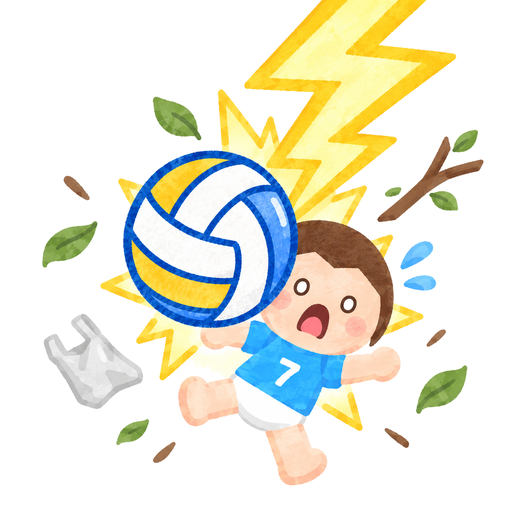
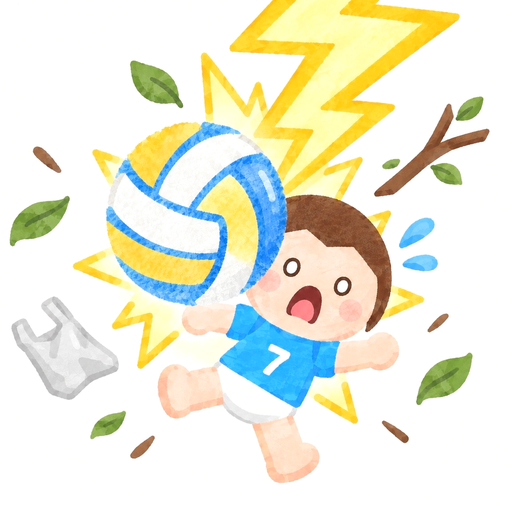
嵐のバレーボールの紹介ページを英語対応、Lucideのライセンス表記を追加
- 嵐のバレーボール: 日本語/英語の切り替えを追加（ブラウザの言語か ?lang= で決まる）
- 嵐のバレーボール: 応援課金の注記を追加、文言を微修正
- 嵐のバレーボール / Vollog: Lucide（ISC）と Feather（MIT）のライセンス文とフッターの表記を追加
- 嵐のバレーボールのアイコン画像を差し替え

diff --git a/apps/storm-volley/index.html b/apps/storm-volley/index.html
@@ -406,6 +406,37 @@
       color: var(--muted);
     }
 
+    /* 言語の切り替え。<html lang> に合う側だけを見せる（スクリプトが動かなければ日本語） */
+    html:not([lang="en"]) .en { display: none; }
+    html[lang="en"] .ja { display: none; }
+
+    .lang-switcher {
+      display: flex;
+      justify-content: flex-end;
+      gap: 8px;
+      margin-bottom: 28px;
+    }
+
+    .lang-btn {
+      font: inherit;
+      font-size: 12px;
+      padding: 5px 14px;
+      border-radius: 20px;
+      border: 1px solid var(--border);
+      background: transparent;
+      color: var(--muted);
+      cursor: pointer;
+      transition: color 0.2s, border-color 0.2s;
+    }
+    .lang-btn:hover { color: var(--text); }
+
+    html:not([lang="en"]) .lang-btn[data-lang="ja"],
+    html[lang="en"] .lang-btn[data-lang="en"] {
+      border-color: rgba(124,106,255,0.4);
+      color: var(--accent);
+      background: rgba(124,106,255,0.08);
+    }
+
     @keyframes fadeUp {
       from { opacity: 0; transform: translateY(20px); }
       to   { opacity: 1; transform: translateY(0); }
@@ -422,12 +453,19 @@
   <header>
     <a class="header-brand" href="/">AsakusaSemao</a>
     <nav class="header-links">
-      <a href="/apps/storm-volley/privacy.html">プライバシーポリシー</a>
-      <a href="/apps/tokushoho.html">特定商取引法</a>
+      <a class="ja" href="/apps/storm-volley/privacy.html">プライバシーポリシー</a>
+      <a class="ja" href="/apps/tokushoho.html">特定商取引法</a>
+      <a class="en" lang="en" href="/apps/storm-volley/privacy.html">Privacy Policy</a>
     </nav>
   </header>
 
-  <main>
+  <main class="ja">
+
+    <!-- 言語の切り替え。最初は、ブラウザの言語に合わせる（下のスクリプト） -->
+    <div class="lang-switcher">
+      <button class="lang-btn" type="button" data-lang="ja">日本語</button>
+      <button class="lang-btn" type="button" data-lang="en">English</button>
+    </div>
 
     <!-- Hero -->
     <div class="hero">
@@ -482,7 +520,7 @@
             <!-- Lucide: wind --><svg viewBox="0 0 24 24"><path d="M12.8 19.6A2 2 0 1 0 14 16H2"/><path d="M17.5 8a2.5 2.5 0 1 1 2 4H2"/><path d="M9.8 4.4A2 2 0 1 1 11 8H2"/></svg>
           </div>
           <h3>風</h3>
-          <p>打球が風に流されます。風向きを読んで狙えば、コートに入ります。読みちがえると、流されてアウト。</p>
+          <p>打球が風に流されます。風向きを読んでねらえば、コートに入ります。読みちがえると、流されてアウト。</p>
         </div>
         <div class="feature-card">
           <div class="feature-icon">
@@ -517,12 +555,12 @@
 
     <section>
       <h2>広告とアプリ内課金</h2>
-      <p class="section-note">画面の上に広告が出ます。「広告を消す」を一度買うと、出なくなります。「開発者を応援」では、お礼に短いムービーをお見せします。価格は、各ストアの表示をご確認ください。</p>
+      <p class="section-note">画面の上に広告が出ます。「広告を消す」を一度買うと、出なくなります。「開発者を応援」では、お礼に短いムービーをお見せします。価格は、各ストアの表示をご確認ください。<br>応援は、ご要望への対応や機能の追加をお約束するものではありません。ご感想やご要望は、ストアのレビューでお聞かせいただけると励みになります。</p>
     </section>
 
     <section>
       <h2>ご注意</h2>
-      <p class="section-note">雷の場面で、画面が強く光ります。設定の「雷の演出」で弱くできます。<br>これはゲームです。実際に雷が鳴ったり、風が強いときは、建物の中へ。バレーは安全な場所で楽しみましょう。</p>
+      <p class="section-note">雷の場面で、画面が強く光ります。設定の「雷の演出」で弱くできます。<br>これはゲームです。実際に雷が鳴っているときや、風が強いときは、建物の中へ。バレーは安全な場所で楽しみましょう。</p>
     </section>
 
     <section>
@@ -532,14 +570,198 @@
 
   </main>
 
+  <!-- English（中身は日本語の側と同じ並び。片方を直したら、もう片方も直す） -->
+  <main class="en" lang="en">
+
+    <!-- 言語の切り替え。最初は、ブラウザの言語に合わせる（下のスクリプト） -->
+    <div class="lang-switcher">
+      <button class="lang-btn" type="button" data-lang="ja">日本語</button>
+      <button class="lang-btn" type="button" data-lang="en">English</button>
+    </div>
+
+    <!-- Hero -->
+    <div class="hero">
+      <img class="app-icon" src="/assets/images/storm-volley-icon.png" alt="Storm Volleyball icon" />
+      <div class="hero-text">
+        <h1>
+          <span>Storm or not, we play!</span>
+          Storm Volleyball
+        </h1>
+        <p>Gale-force winds, thick fog, a lightning strike or two… and we still want to play volleyball!<br>A one-on-one volleyball game in a storm, with simple one-finger controls.<br>Read the weather and land the ball on your opponent's side.</p>
+        <div class="badge-row">
+          <span class="badge accent">Free to play</span>
+          <span class="badge accent">No account needed</span>
+          <span class="badge accent">Portrait or landscape</span>
+          <span class="badge accent">日本語 / English</span>
+          <span class="badge">iOS / Android coming soon</span>
+        </div>
+      </div>
+    </div>
+
+    <!-- Store buttons（日本語の側と同じ。公開したら、リンクに替える） -->
+    <div class="store-buttons">
+      <span class="store-btn store-btn-soon">
+        <svg viewBox="0 0 24 24" xmlns="http://www.w3.org/2000/svg"><path d="M18.71 19.5c-.83 1.24-1.71 2.45-3.05 2.47-1.34.03-1.77-.79-3.29-.79-1.53 0-2 .77-3.27.82-1.31.05-2.3-1.32-3.14-2.53C4.25 17 2.94 12.45 4.7 9.39c.87-1.52 2.43-2.48 4.12-2.51 1.28-.02 2.5.87 3.29.87.78 0 2.26-1.07 3.8-.91.65.03 2.47.26 3.64 1.98-.09.06-2.17 1.28-2.15 3.81.03 3.02 2.65 4.03 2.68 4.04-.03.07-.42 1.44-1.38 2.83M13 3.5c.73-.83 1.94-1.46 2.94-1.5.13 1.17-.34 2.35-1.04 3.19-.69.85-1.83 1.51-2.95 1.42-.15-1.15.41-2.35 1.05-3.11z"/></svg>
+        <span class="store-btn-label">
+          <small>Coming soon</small>
+          App Store
+        </span>
+      </span>
+      <span class="store-btn store-btn-soon">
+        <svg viewBox="0 0 24 24" xmlns="http://www.w3.org/2000/svg"><path d="M3.18 23.76a2 2 0 0 0 2.07-.22l11.4-6.58-2.53-2.53L3.18 23.76zM.5 1.26C.19 1.67 0 2.28 0 3.07v17.87c0 .79.19 1.4.51 1.8l.09.09 10.01-10.01v-.24L.59 1.17.5 1.26zM20.93 10.37l-2.9-1.67-2.83 2.83 2.83 2.83 2.91-1.68c.83-.48.83-1.26-.01-1.31zM5.25.46l11.4 6.58-2.53 2.53L3.18.22A2 2 0 0 1 5.25.46z"/></svg>
+        <span class="store-btn-label">
+          <small>Coming soon</small>
+          Google Play
+        </span>
+      </span>
+    </div>
+
+    <!-- Features -->
+    <section>
+      <h2>The game</h2>
+      <div class="feature-grid">
+        <div class="feature-card">
+          <div class="feature-icon">
+            <!-- Lucide: pointer --><svg viewBox="0 0 24 24"><path d="M22 14a8 8 0 0 1-8 8"/><path d="M18 11v-1a2 2 0 0 0-2-2a2 2 0 0 0-2 2"/><path d="M14 10V9a2 2 0 0 0-2-2a2 2 0 0 0-2 2v1"/><path d="M10 9.5V4a2 2 0 0 0-2-2a2 2 0 0 0-2 2v10"/><path d="M18 11a2 2 0 1 1 4 0v3a8 8 0 0 1-8 8h-2c-2.8 0-4.5-.86-5.99-2.34l-3.6-3.6a2 2 0 0 1 2.83-2.82L7 15"/></svg>
+          </div>
+          <h3>Just taps and swipes</h3>
+          <p>Your player runs on their own. When the ring at your feet lights up, tap. Swipe up for a lob, swipe down for a spike.</p>
+        </div>
+        <div class="feature-card">
+          <div class="feature-icon">
+            <!-- Lucide: wind --><svg viewBox="0 0 24 24"><path d="M12.8 19.6A2 2 0 1 0 14 16H2"/><path d="M17.5 8a2.5 2.5 0 1 1 2 4H2"/><path d="M9.8 4.4A2 2 0 1 1 11 8H2"/></svg>
+          </div>
+          <h3>Wind</h3>
+          <p>The wind carries the ball. Read the wind and your shot lands in. Misread it and it drifts out.</p>
+        </div>
+        <div class="feature-card">
+          <div class="feature-icon">
+            <!-- Lucide: zap --><svg viewBox="0 0 24 24"><path d="M4 14a1 1 0 0 1-.78-1.63l9.9-10.2a.5.5 0 0 1 .86.46l-1.92 6.02A1 1 0 0 0 13 10h7a1 1 0 0 1 .78 1.63l-9.9 10.2a.5.5 0 0 1-.86-.46l1.92-6.02A1 1 0 0 0 11 14z"/></svg>
+          </div>
+          <h3>Lightning</h3>
+          <p>When the count hits 0, lightning strikes whichever court the ball is over, and the other side scores.</p>
+        </div>
+        <div class="feature-card">
+          <div class="feature-icon">
+            <!-- Lucide: cloud-fog --><svg viewBox="0 0 24 24"><path d="M4 14.899A7 7 0 1 1 15.71 8h1.79a4.5 4.5 0 0 1 2.5 8.242"/><path d="M16 17H7"/><path d="M17 21H9"/></svg>
+          </div>
+          <h3>Fog</h3>
+          <p>When fog rolls in, your opponent's side gets hard to see.</p>
+        </div>
+        <div class="feature-card">
+          <div class="feature-icon">
+            <!-- Lucide: school --><svg viewBox="0 0 24 24"><path d="M14 22v-4a2 2 0 1 0-4 0v4"/><path d="m18 10 4 2v8a2 2 0 0 1-2 2H4a2 2 0 0 1-2-2v-8l4-2"/><path d="M18 5v17"/><path d="m4 6 8-4 8 4"/><path d="M6 5v17"/><circle cx="12" cy="9" r="2"/></svg>
+          </div>
+          <h3>Two venues</h3>
+          <p>A gym whose roof and walls blow away mid-match, and a beach that's stormy from the first serve.</p>
+        </div>
+        <div class="feature-card">
+          <div class="feature-icon">
+            <!-- Lucide: shirt --><svg viewBox="0 0 24 24"><path d="M20.38 3.46 16 2a4 4 0 0 1-8 0L3.62 3.46a2 2 0 0 0-1.34 2.23l.58 3.47a1 1 0 0 0 .99.84H6v10c0 1.1.9 2 2 2h8a2 2 0 0 0 2-2V10h2.15a1 1 0 0 0 .99-.84l.58-3.47a2 2 0 0 0-1.34-2.23z"/></svg>
+          </div>
+          <h3>Outfits and records</h3>
+          <p>Spot the rare things that fly past during a match to unlock hats, balls, uniforms, and more. You can share your results as an image.</p>
+        </div>
+      </div>
+    </section>
+
+    <section>
+      <h2>Ads and in-app purchases</h2>
+      <p class="section-note">An ad appears at the top of the screen. Buy "Remove ads" once and it's gone for good. "Support the developer" gets you a short thank-you clip. Prices are shown in each store.<br>Supporting the developer doesn't come with a promise to act on requests or add features. If you have feedback or requests, a store review would mean a lot.</p>
+    </section>
+
+    <section>
+      <h2>Please note</h2>
+      <p class="section-note">The screen flashes brightly when lightning strikes. You can tone it down under "Lightning effects" in Settings.<br>This is just a game. If you hear real thunder or the wind picks up, head indoors. Play volleyball somewhere safe.</p>
+    </section>
+
+    <section>
+      <h2>Contact</h2>
+      <p class="section-note"><a href="mailto:asakusasemao@gmail.com" style="color: var(--accent);">asakusasemao@gmail.com</a></p>
+    </section>
+
+  </main>
+
+  <!--
+    このページの絵記号（「Lucide: ...」と書いてある SVG）は、Lucide（https://lucide.dev）のもの。
+    ライセンスは、著作権表示と許諾の文を写しに残すことを求めるので、ここに置く。絵記号を足しても、この文はそのままでよい。
+
+    ISC License
+
+    Copyright (c) 2026 Lucide Icons and Contributors
+
+    Permission to use, copy, modify, and/or distribute this software for any
+    purpose with or without fee is hereby granted, provided that the above
+    copyright notice and this permission notice appear in all copies.
+
+    THE SOFTWARE IS PROVIDED "AS IS" AND THE AUTHOR DISCLAIMS ALL WARRANTIES
+    WITH REGARD TO THIS SOFTWARE INCLUDING ALL IMPLIED WARRANTIES OF
+    MERCHANTABILITY AND FITNESS. IN NO EVENT SHALL THE AUTHOR BE LIABLE FOR
+    ANY SPECIAL, DIRECT, INDIRECT, OR CONSEQUENTIAL DAMAGES OR ANY DAMAGES
+    WHATSOEVER RESULTING FROM LOSS OF USE, DATA OR PROFITS, WHETHER IN AN
+    ACTION OF CONTRACT, NEGLIGENCE OR OTHER TORTIOUS ACTION, ARISING OUT OF
+    OR IN CONNECTION WITH THE USE OR PERFORMANCE OF THIS SOFTWARE.
+
+    Lucide の絵記号の一部は Feather（https://feathericons.com）がもとで、そちらは次のライセンス。
+
+    The MIT License (MIT) (for the icons derived from the Feather project)
+
+    Copyright (c) 2013-present Cole Bemis
+
+    Permission is hereby granted, free of charge, to any person obtaining a copy
+    of this software and associated documentation files (the "Software"), to deal
+    in the Software without restriction, including without limitation the rights
+    to use, copy, modify, merge, publish, distribute, sublicense, and/or sell
+    copies of the Software, and to permit persons to whom the Software is
+    furnished to do so, subject to the following conditions:
+
+    The above copyright notice and this permission notice shall be included in all
+    copies or substantial portions of the Software.
+
+    THE SOFTWARE IS PROVIDED "AS IS", WITHOUT WARRANTY OF ANY KIND, EXPRESS OR
+    IMPLIED, INCLUDING BUT NOT LIMITED TO THE WARRANTIES OF MERCHANTABILITY,
+    FITNESS FOR A PARTICULAR PURPOSE AND NONINFRINGEMENT. IN NO EVENT SHALL THE
+    AUTHORS OR COPYRIGHT HOLDERS BE LIABLE FOR ANY CLAIM, DAMAGES OR OTHER
+    LIABILITY, WHETHER IN AN ACTION OF CONTRACT, TORT OR OTHERWISE, ARISING FROM,
+    OUT OF OR IN CONNECTION WITH THE SOFTWARE OR THE USE OR OTHER DEALINGS IN THE
+    SOFTWARE.
+  -->
+
   <footer>
     <div class="footer-links">
-      <a href="/">トップ</a>
-      <a href="/apps/storm-volley/privacy.html">プライバシーポリシー</a>
-      <a href="/apps/tokushoho.html">特定商取引法に基づく表記</a>
+      <a class="ja" href="/">トップ</a>
+      <a class="ja" href="/apps/storm-volley/privacy.html">プライバシーポリシー</a>
+      <a class="ja" href="/apps/tokushoho.html">特定商取引法に基づく表記</a>
+      <a class="en" lang="en" href="/">Home</a>
+      <a class="en" lang="en" href="/apps/storm-volley/privacy.html">Privacy Policy</a>
     </div>
     <p>© 2026 AsakusaSemao. All rights reserved.</p>
+    <p class="ja">アイコン: <a href="https://lucide.dev/license" target="_blank" rel="noopener" style="color: inherit;">Lucide</a>（ISC License）</p>
+    <p class="en" lang="en">Icons: <a href="https://lucide.dev/license" target="_blank" rel="noopener" style="color: inherit;">Lucide</a> (ISC License)</p>
   </footer>
+
+  <script>
+    // 最初は、ブラウザの言語に合わせる（日本語でなければ英語）。?lang=en / ?lang=ja で決められる
+    const TITLES = {
+      ja: document.title,
+      en: 'Storm Volleyball - One-on-one volleyball in a storm',
+    };
+
+    function switchLang(lang) {
+      document.documentElement.lang = lang;
+      document.title = TITLES[lang];
+    }
+
+    document.querySelectorAll('.lang-btn').forEach((button) => {
+      button.addEventListener('click', () => switchLang(button.dataset.lang));
+    });
+
+    const asked = new URLSearchParams(location.search).get('lang');
+    const browserLang = navigator.language || navigator.userLanguage || 'ja';
+    if (asked === 'en' || (asked !== 'ja' && !browserLang.startsWith('ja'))) {
+      switchLang('en');
+    }
+  </script>
 
 </body>
 </html>

diff --git a/apps/vollog/index.html b/apps/vollog/index.html
@@ -580,6 +580,51 @@
 
   </main>
 
+  <!--
+    このページの絵記号（「Lucide: ...」と書いてある SVG）は、Lucide（https://lucide.dev）のもの。
+    ライセンスは、著作権表示と許諾の文を写しに残すことを求めるので、ここに置く。絵記号を足しても、この文はそのままでよい。
+
+    ISC License
+
+    Copyright (c) 2026 Lucide Icons and Contributors
+
+    Permission to use, copy, modify, and/or distribute this software for any
+    purpose with or without fee is hereby granted, provided that the above
+    copyright notice and this permission notice appear in all copies.
+
+    THE SOFTWARE IS PROVIDED "AS IS" AND THE AUTHOR DISCLAIMS ALL WARRANTIES
+    WITH REGARD TO THIS SOFTWARE INCLUDING ALL IMPLIED WARRANTIES OF
+    MERCHANTABILITY AND FITNESS. IN NO EVENT SHALL THE AUTHOR BE LIABLE FOR
+    ANY SPECIAL, DIRECT, INDIRECT, OR CONSEQUENTIAL DAMAGES OR ANY DAMAGES
+    WHATSOEVER RESULTING FROM LOSS OF USE, DATA OR PROFITS, WHETHER IN AN
+    ACTION OF CONTRACT, NEGLIGENCE OR OTHER TORTIOUS ACTION, ARISING OUT OF
+    OR IN CONNECTION WITH THE USE OR PERFORMANCE OF THIS SOFTWARE.
+
+    Lucide の絵記号の一部は Feather（https://feathericons.com）がもとで、そちらは次のライセンス。
+
+    The MIT License (MIT) (for the icons derived from the Feather project)
+
+    Copyright (c) 2013-present Cole Bemis
+
+    Permission is hereby granted, free of charge, to any person obtaining a copy
+    of this software and associated documentation files (the "Software"), to deal
+    in the Software without restriction, including without limitation the rights
+    to use, copy, modify, merge, publish, distribute, sublicense, and/or sell
+    copies of the Software, and to permit persons to whom the Software is
+    furnished to do so, subject to the following conditions:
+
+    The above copyright notice and this permission notice shall be included in all
+    copies or substantial portions of the Software.
+
+    THE SOFTWARE IS PROVIDED "AS IS", WITHOUT WARRANTY OF ANY KIND, EXPRESS OR
+    IMPLIED, INCLUDING BUT NOT LIMITED TO THE WARRANTIES OF MERCHANTABILITY,
+    FITNESS FOR A PARTICULAR PURPOSE AND NONINFRINGEMENT. IN NO EVENT SHALL THE
+    AUTHORS OR COPYRIGHT HOLDERS BE LIABLE FOR ANY CLAIM, DAMAGES OR OTHER
+    LIABILITY, WHETHER IN AN ACTION OF CONTRACT, TORT OR OTHERWISE, ARISING FROM,
+    OUT OF OR IN CONNECTION WITH THE SOFTWARE OR THE USE OR OTHER DEALINGS IN THE
+    SOFTWARE.
+  -->
+
   <footer>
     <div class="footer-links">
       <a href="/">トップ</a>
@@ -588,6 +633,7 @@
       <a href="/apps/tokushoho.html">特定商取引法に基づく表記</a>
     </div>
     <p>© 2026 AsakusaSemao. All rights reserved.</p>
+    <p>アイコン: <a href="https://lucide.dev/license" target="_blank" rel="noopener" style="color: inherit;">Lucide</a>（ISC License）</p>
   </footer>
 
 </body>
